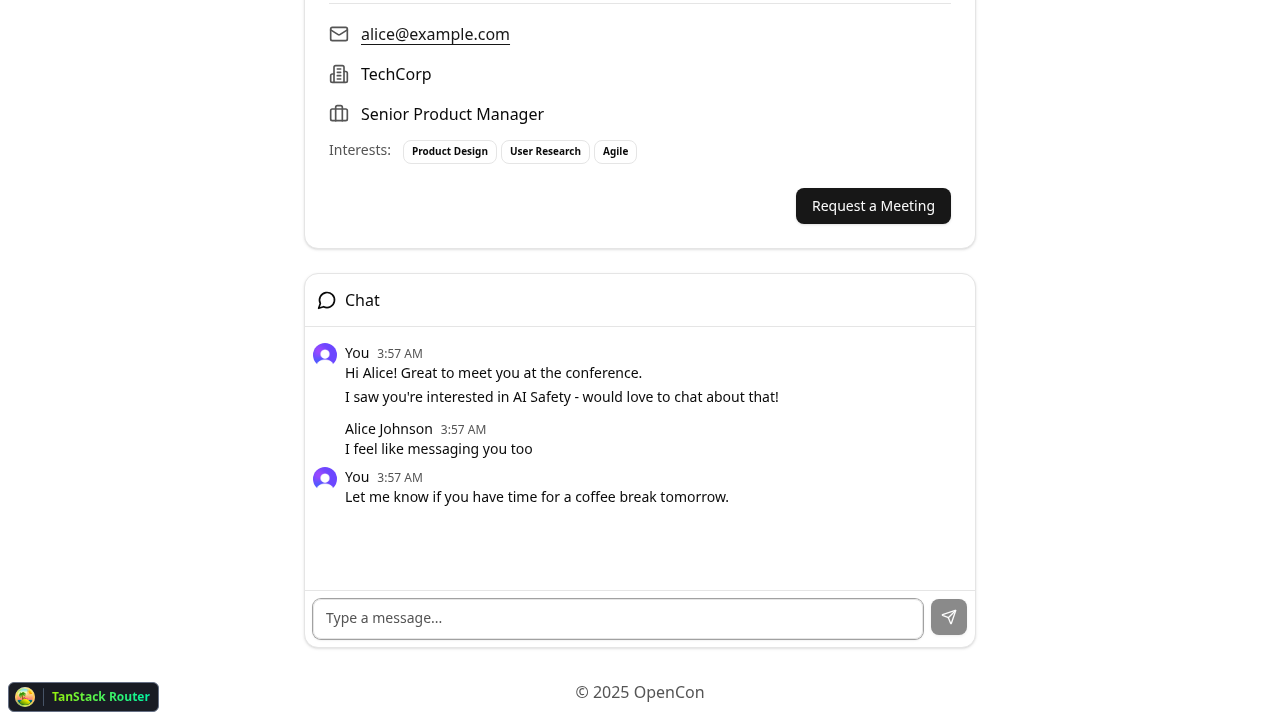
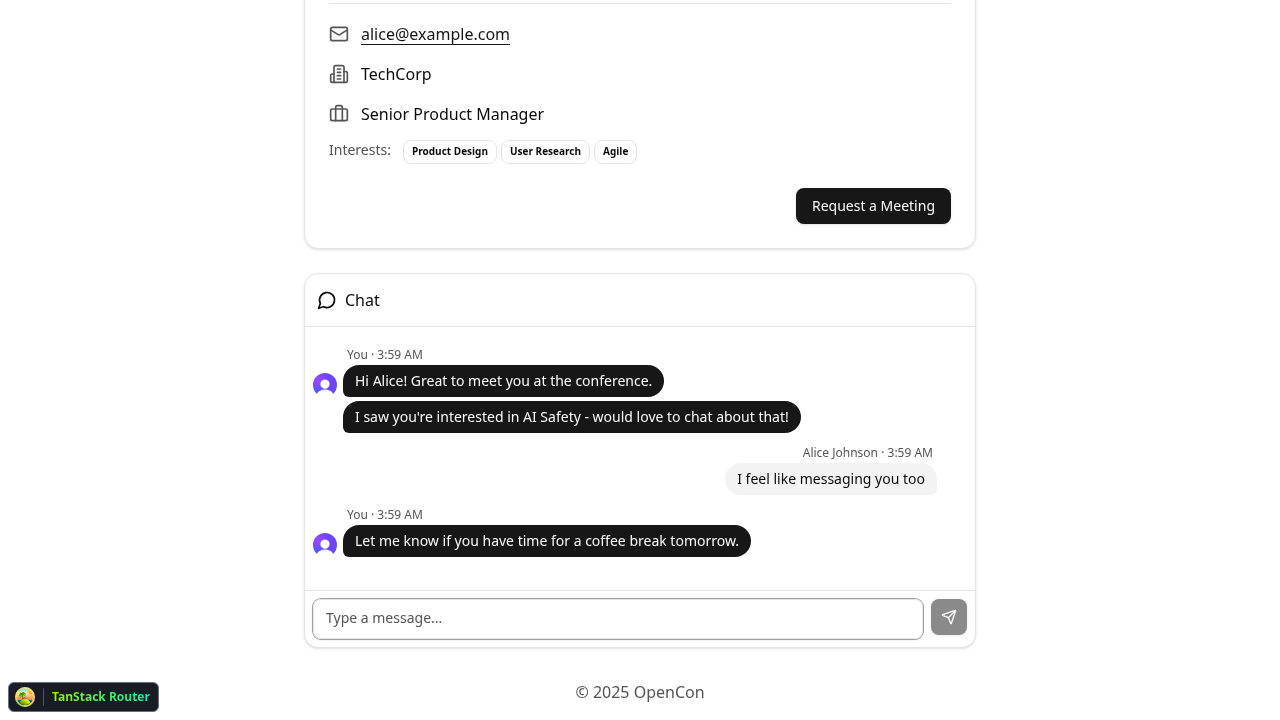
feat: WhatsApp-style chat bubbles (#25)
* feat: WhatsApp-style chat bubbles

- Style messages as compact rounded bubbles (only as wide as content)
- Current user messages on the left with primary color background
- Other user messages on the right with muted background
- Avatars positioned at the bottom of message groups
- Improved spacing between message groups

Also: increase Clerk code input waitFor timeout for stability

🤖 Generated with [Claude Code](https://claude.com/claude-code)

* fix: reply button always visible on mobile

Show reply button by default on mobile (touch devices), only use
hover behavior on sm+ screens where hover is available.

🤖 Generated with [Claude Code](https://claude.com/claude-code)

---------

Changed region(s): [[0.2188, 0.4583, 0.625, 0.7944], [0.5625, 0.6111, 0.7188, 0.6722]]

diff --git a/src/components/chat/ChatRoom.tsx b/src/components/chat/ChatRoom.tsx
@@ -120,59 +120,55 @@ export function ChatRoom({
             return (
               <div
                 key={message._id}
-                className={`group flex gap-2 ${showSender ? "mt-2" : ""}`}
+                className={`group flex ${isCurrentUser ? "justify-start" : "justify-end"} ${showSender ? "mt-3" : "mt-0.5"}`}
               >
-                {/* Avatar column */}
-                <div className="w-6 flex-shrink-0">
-                  {showSender && sender?.imageUrl && (
-                    <img
-                      src={sender.imageUrl}
-                      alt=""
-                      className="w-6 h-6 rounded-full"
-                    />
-                  )}
-                </div>
+                <div className={`flex gap-1.5 max-w-[80%] ${isCurrentUser ? "flex-row" : "flex-row-reverse"}`}>
+                  {/* Avatar */}
+                  <div className="w-6 flex-shrink-0 self-end">
+                    {showSender && sender?.imageUrl && (
+                      <img
+                        src={sender.imageUrl}
+                        alt=""
+                        className="w-6 h-6 rounded-full"
+                      />
+                    )}
+                  </div>
 
-                {/* Message content */}
-                <div className="flex-1 min-w-0">
-                  {showSender && (
-                    <div className="flex items-baseline gap-2">
-                      <span className="font-medium text-sm">
-                        {isCurrentUser ? "You" : (sender?.name ?? "Unknown")}
+                  {/* Message bubble */}
+                  <div className={`flex flex-col ${isCurrentUser ? "items-start" : "items-end"}`}>
+                    {showSender && (
+                      <span className="text-xs text-muted-foreground mb-0.5 px-1">
+                        {isCurrentUser ? "You" : (sender?.name ?? "Unknown")} · {formatMessageTime(message._creationTime)}
                       </span>
-                      <span className="text-xs text-muted-foreground">
-                        {formatMessageTime(message._creationTime)}
-                      </span>
-                    </div>
-                  )}
+                    )}
 
-                  {/* Reply indicator */}
-                  {parentMessage && (
-                    <div className="text-xs text-muted-foreground border-l-2 border-muted pl-2 mb-1 truncate">
-                      Replying to{" "}
-                      {participantsMap.get(parentMessage.senderId)?.name ??
-                        "Unknown"}
-                      : {parentMessage.content.slice(0, 50)}
-                      {parentMessage.content.length > 50 ? "..." : ""}
-                    </div>
-                  )}
+                    {/* Reply indicator */}
+                    {parentMessage && (
+                      <div className="text-xs text-muted-foreground border-l-2 border-muted pl-2 mb-1 max-w-full truncate">
+                        ↩ {participantsMap.get(parentMessage.senderId)?.name ?? "Unknown"}: {parentMessage.content.slice(0, 30)}
+                        {parentMessage.content.length > 30 ? "..." : ""}
+                      </div>
+                    )}
 
-                  <p className="text-sm break-words">{message.content}</p>
+                    <div className={`px-3 py-1.5 rounded-2xl text-sm break-words ${isCurrentUser ? "bg-primary text-primary-foreground rounded-bl-sm" : "bg-muted rounded-br-sm"}`}>
+                      {message.content}
+                    </div>
+                  </div>
+
+                  {/* Reply button - always visible on mobile, hover on desktop */}
+                  <Button
+                    variant="ghost"
+                    size="icon-xs"
+                    onClick={() => {
+                      setReplyingTo(message);
+                      inputRef.current?.focus();
+                    }}
+                    className="opacity-100 sm:opacity-0 sm:group-hover:opacity-100 self-center"
+                    title="Reply"
+                  >
+                    <Reply className="w-3 h-3" />
+                  </Button>
                 </div>
-
-                {/* Reply button on hover */}
-                <Button
-                  variant="ghost"
-                  size="icon-xs"
-                  onClick={() => {
-                    setReplyingTo(message);
-                    inputRef.current?.focus();
-                  }}
-                  className="opacity-0 group-hover:opacity-100"
-                  title="Reply"
-                >
-                  <Reply className="w-3 h-3" />
-                </Button>
               </div>
             );
           })

diff --git a/e2e/app.spec.ts b/e2e/app.spec.ts
@@ -146,7 +146,7 @@ async function signIn(page: import("@playwright/test").Page) {
   await page.getByRole("button", { name: "Continue" }).click();
   // Wait for Clerk to be ready to accept the verification code
   const codeInput = page.getByRole("textbox", { name: "Enter verification code" });
-  await codeInput.waitFor({ state: "visible" });
+  await codeInput.waitFor({ state: "visible", timeout: AUTH_TIMEOUT });
   await page.waitForTimeout(500); // Give Clerk a moment to initialize
   await codeInput.pressSequentially(CLERK_TEST_CODE);
   await expect(
